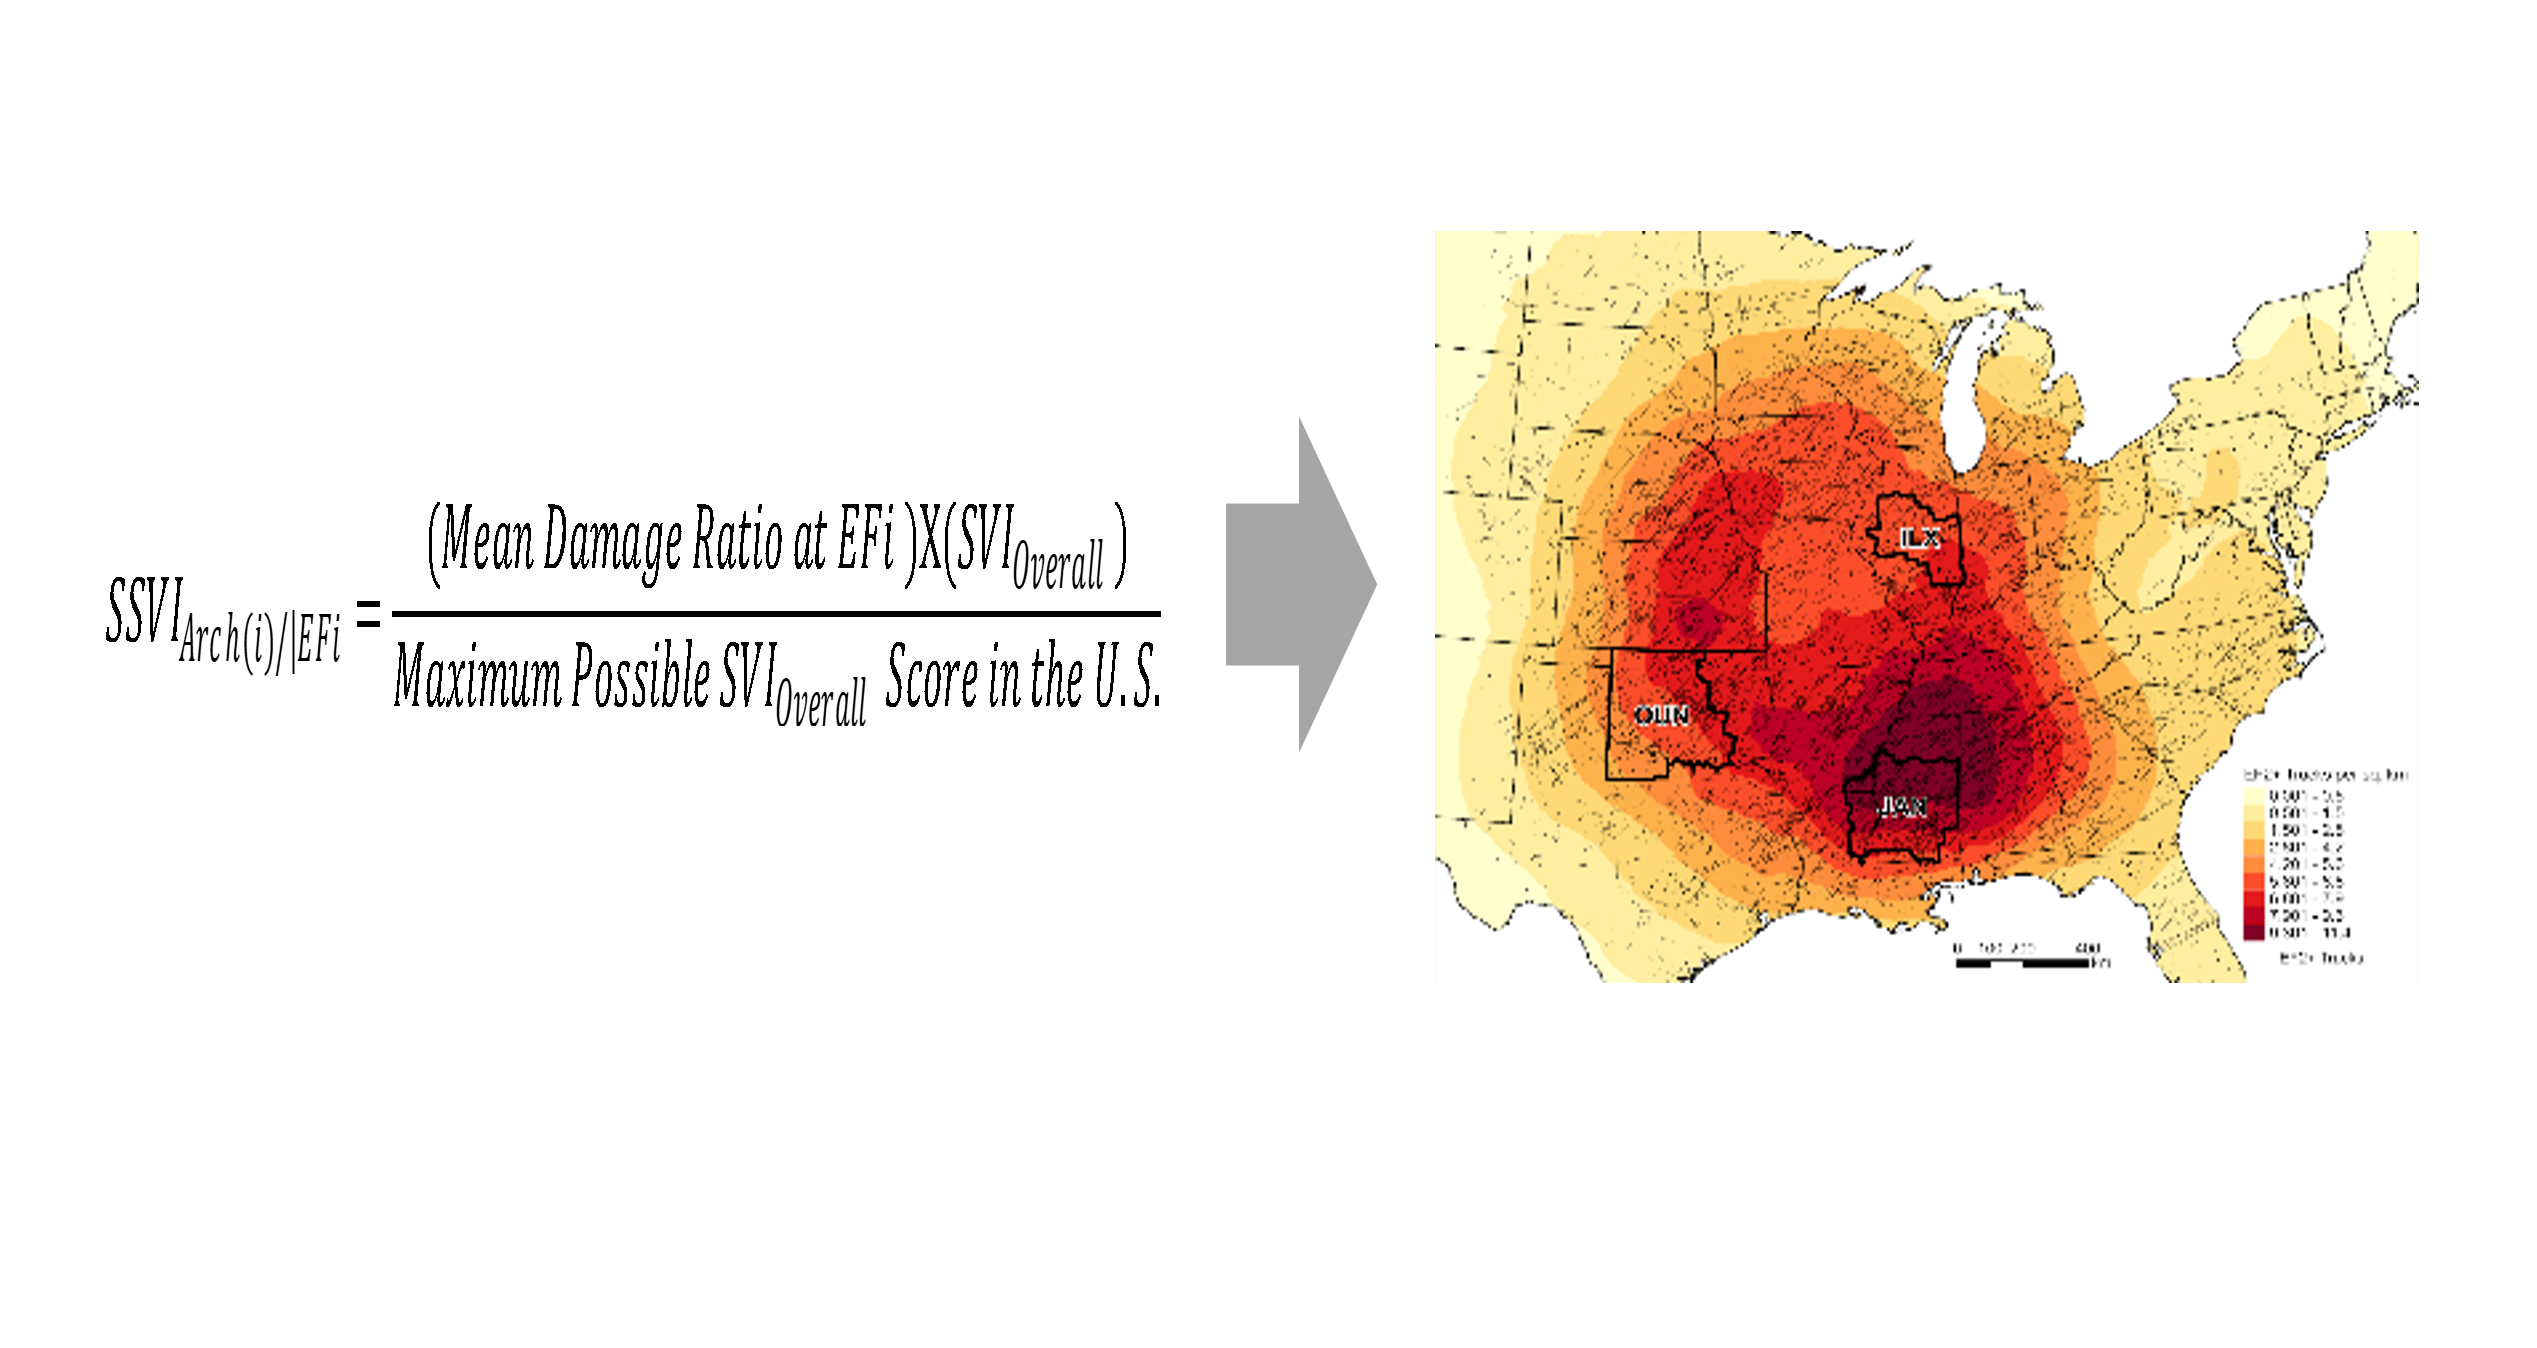
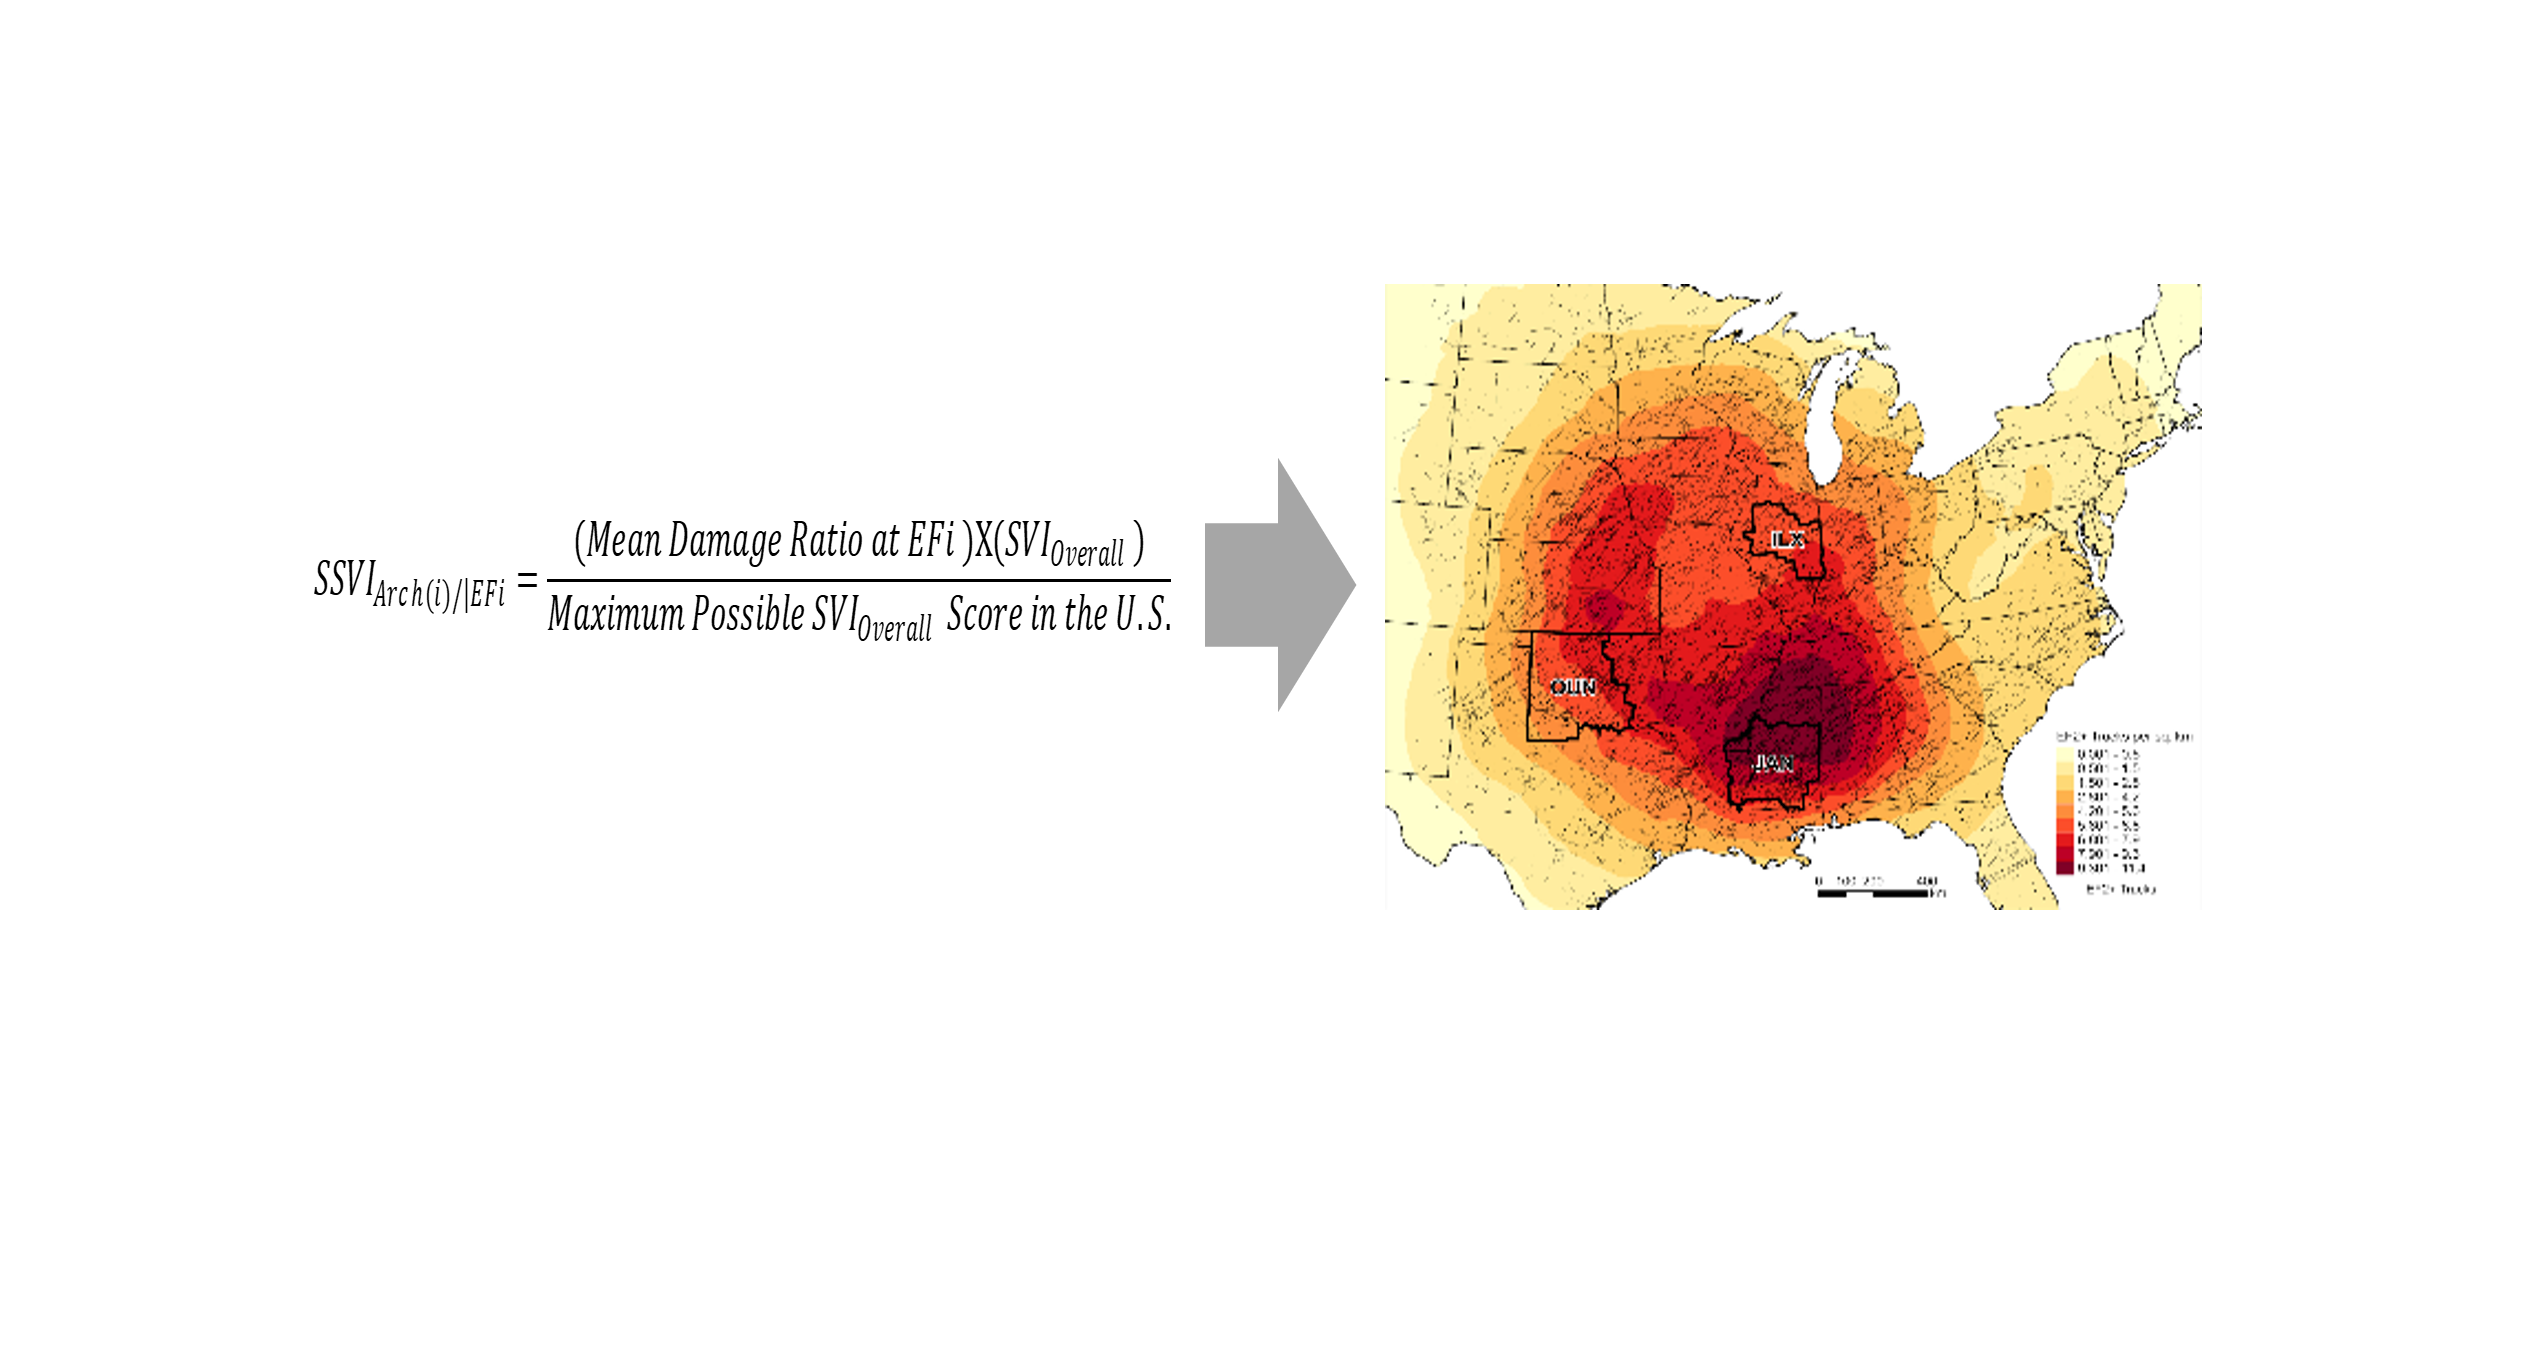
update mission, resize figures

Changed region(s): [[0.0311, 0.1558, 0.9653, 0.7478]]

diff --git a/index.html b/index.html
@@ -80,14 +80,14 @@
             <div class="col-md p-0">
                 <a href="#" class="block">
                     <img src="img/task1.png" alt="">
-                    <h2>Task 1; Extracting Building Attributes Using Deep Learning</h2>
+                    <h2>Task 1: Extracting Building Attributes Using Deep Learning</h2>
                     <!-- <small>Courtesy of Team Member T. Tomiczek</small> -->
                 </a>
             </div>
             <div class="col-md p-0">
                 <a href="#" class=" block">
                     <img src="img/task2.png" alt="">
-                    <h2>Task 2; Developing an Innovative Approach for Tornado Fragility/Vulnerability Analysis and Reducing
+                    <h2>Task 2: Developing an Innovative Approach for Tornado Fragility/Vulnerability Analysis and Reducing
                         Structural Vulnerability </h2>
                     <!-- <small>Photo courtesy of ... Will be replaced later.</small> -->
                 </a>
@@ -97,7 +97,7 @@
             <div class="col-md p-0">
                 <a href="support_tool.html" class="block">
                     <img src="img/task3.png" alt="">
-                    <h2>Task 3; Determining Regional Patterns and Relationships between Climatological Tornado Risk,
+                    <h2>Task 3: Determining Regional Patterns and Relationships between Climatological Tornado Risk,
                         Structural
                         Vulnerability, and Social Vulnerability</h2>
                     <!-- <small>Courtesy of Team Member T. Tomiczek</small> -->
@@ -105,7 +105,7 @@
             </div>
             <div class="col-md p-0">
                 <a href="#" class="block"> <img src="img/task4.png" alt="">
-                    <h2>Task 4; Study Tornado Risk Perception and Capacity for Mitigation
+                    <h2>Task 4: Study Tornado Risk Perception and Capacity for Mitigation
                     </h2>
                     <!-- <small>Courtesy of Team Member T. Tomiczek</small> -->
                 </a>
@@ -120,7 +120,8 @@
                 <div class="row my-4">
                     <div class="col-md-8">
                         <div class="footer-title">Vision</div>
-                        <div>Mangroves pave the path for coastal communities to THRIVE under the worsening "hazardscape."
+                        <div>Lay the cornerstone of tornado disaster intervention through assessments of structural and
+                            social vulnerability interdependence.
                         </div>
                     </div>
                     <div class="col-md-4">

diff --git a/outputs.html b/outputs.html
@@ -20,7 +20,7 @@
 
         <div class="collapse navbar-collapse" id="navbarSupportedContent">
             <ul class="navbar-nav ml-auto">
-                <li class="nav-item active">
+                <li class="nav-item">
                     <a class="nav-link" href="index.html">Home</a>
                 </li>
                 <li class="nav-item">
@@ -29,7 +29,7 @@
                 <li class="nav-item">
                     <a class="nav-link" href="#products">Products</a>
                 </li>
-                <li class="nav-item">
+                <li class="nav-item active">
                     <a class="nav-link" href="support_tool.html">Tool</a>
                 </li>
                 <li class="nav-item">
@@ -77,14 +77,14 @@
         <h1 class="pt-5">At Building Level</h1>
         <div class="row py-3">
             <div class="col-md">
-                <h2 class="output-label">Animation of tornado impact without adopting UBC</h2>
+                <h2 class="output-label">Animation of tornado impact before intervention</h2>
                 <video class="video embed-responsive" autoplay muted loop>
                     <source src="img/left_animation.mp4" type="video/mp4" class="embed-responsive-item">
                 </video>
                 <small>Will be replaced later</small>
             </div>
             <div class="col-md">
-                <h2 class="output-label">Animation of tornado impact with adopting UBC</h2>
+                <h2 class="output-label">Animation of tornado impact after intervention</h2>
 
                 <video class="video embed-responsive" autoplay muted loop>
                     <source src="img/right_animation.mp4" type="video/mp4" class="embed-responsive-item">
@@ -128,7 +128,8 @@
                 <div class="row my-4">
                     <div class="col-md-8">
                         <div class="footer-title">Vision</div>
-                        <div>Mangroves pave the path for coastal communities to THRIVE under the worsening "hazardscape."
+                        <div>Lay the cornerstone of tornado disaster intervention through assessments of structural and
+                            social vulnerability interdependence.
                         </div>
                     </div>
                     <div class="col-md-4">

diff --git a/support_tool.html b/support_tool.html
@@ -20,7 +20,7 @@
 
         <div class="collapse navbar-collapse" id="navbarSupportedContent">
             <ul class="navbar-nav ml-auto">
-                <li class="nav-item active">
+                <li class="nav-item">
                     <a class="nav-link" href="index.html">Home</a>
                 </li>
                 <li class="nav-item">
@@ -29,7 +29,7 @@
                 <li class="nav-item">
                     <a class="nav-link" href="#products">Products</a>
                 </li>
-                <li class="nav-item">
+                <li class="nav-item active">
                     <a class="nav-link" href="support_tool.html">Tool</a>
                 </li>
                 <li class="nav-item">
@@ -80,9 +80,9 @@
                 <label for="location">Location of Interest (Building Inventory)</label>
                 <select class="custom-select" id="location">
                     <option selected>Please select a location</option>
-                    <option value="mayfield-ky">Mayfield, KY</option>
-                    <option value="norman-ok">Norman, OK</option>
-                    <option value="joplin-mo">Joplin, Mo</option>
+                    <option value="mayfield-ky">Jackson, MS (JAN)</option>
+                    <option value="norman-ok">Lincoln, IL (ILX)</option>
+                    <option value="joplin-mo">Norman, OK (OUN)</option>
                     <option value="other">...</option>
                 </select>
             </div>
@@ -124,7 +124,8 @@
                 <div class="row my-4">
                     <div class="col-md-8">
                         <div class="footer-title">Vision</div>
-                        <div>Mangroves pave the path for coastal communities to THRIVE under the worsening "hazardscape."
+                        <div>Lay the cornerstone of tornado disaster intervention through assessments of structural and
+                            social vulnerability interdependence.
                         </div>
                     </div>
                     <div class="col-md-4">
